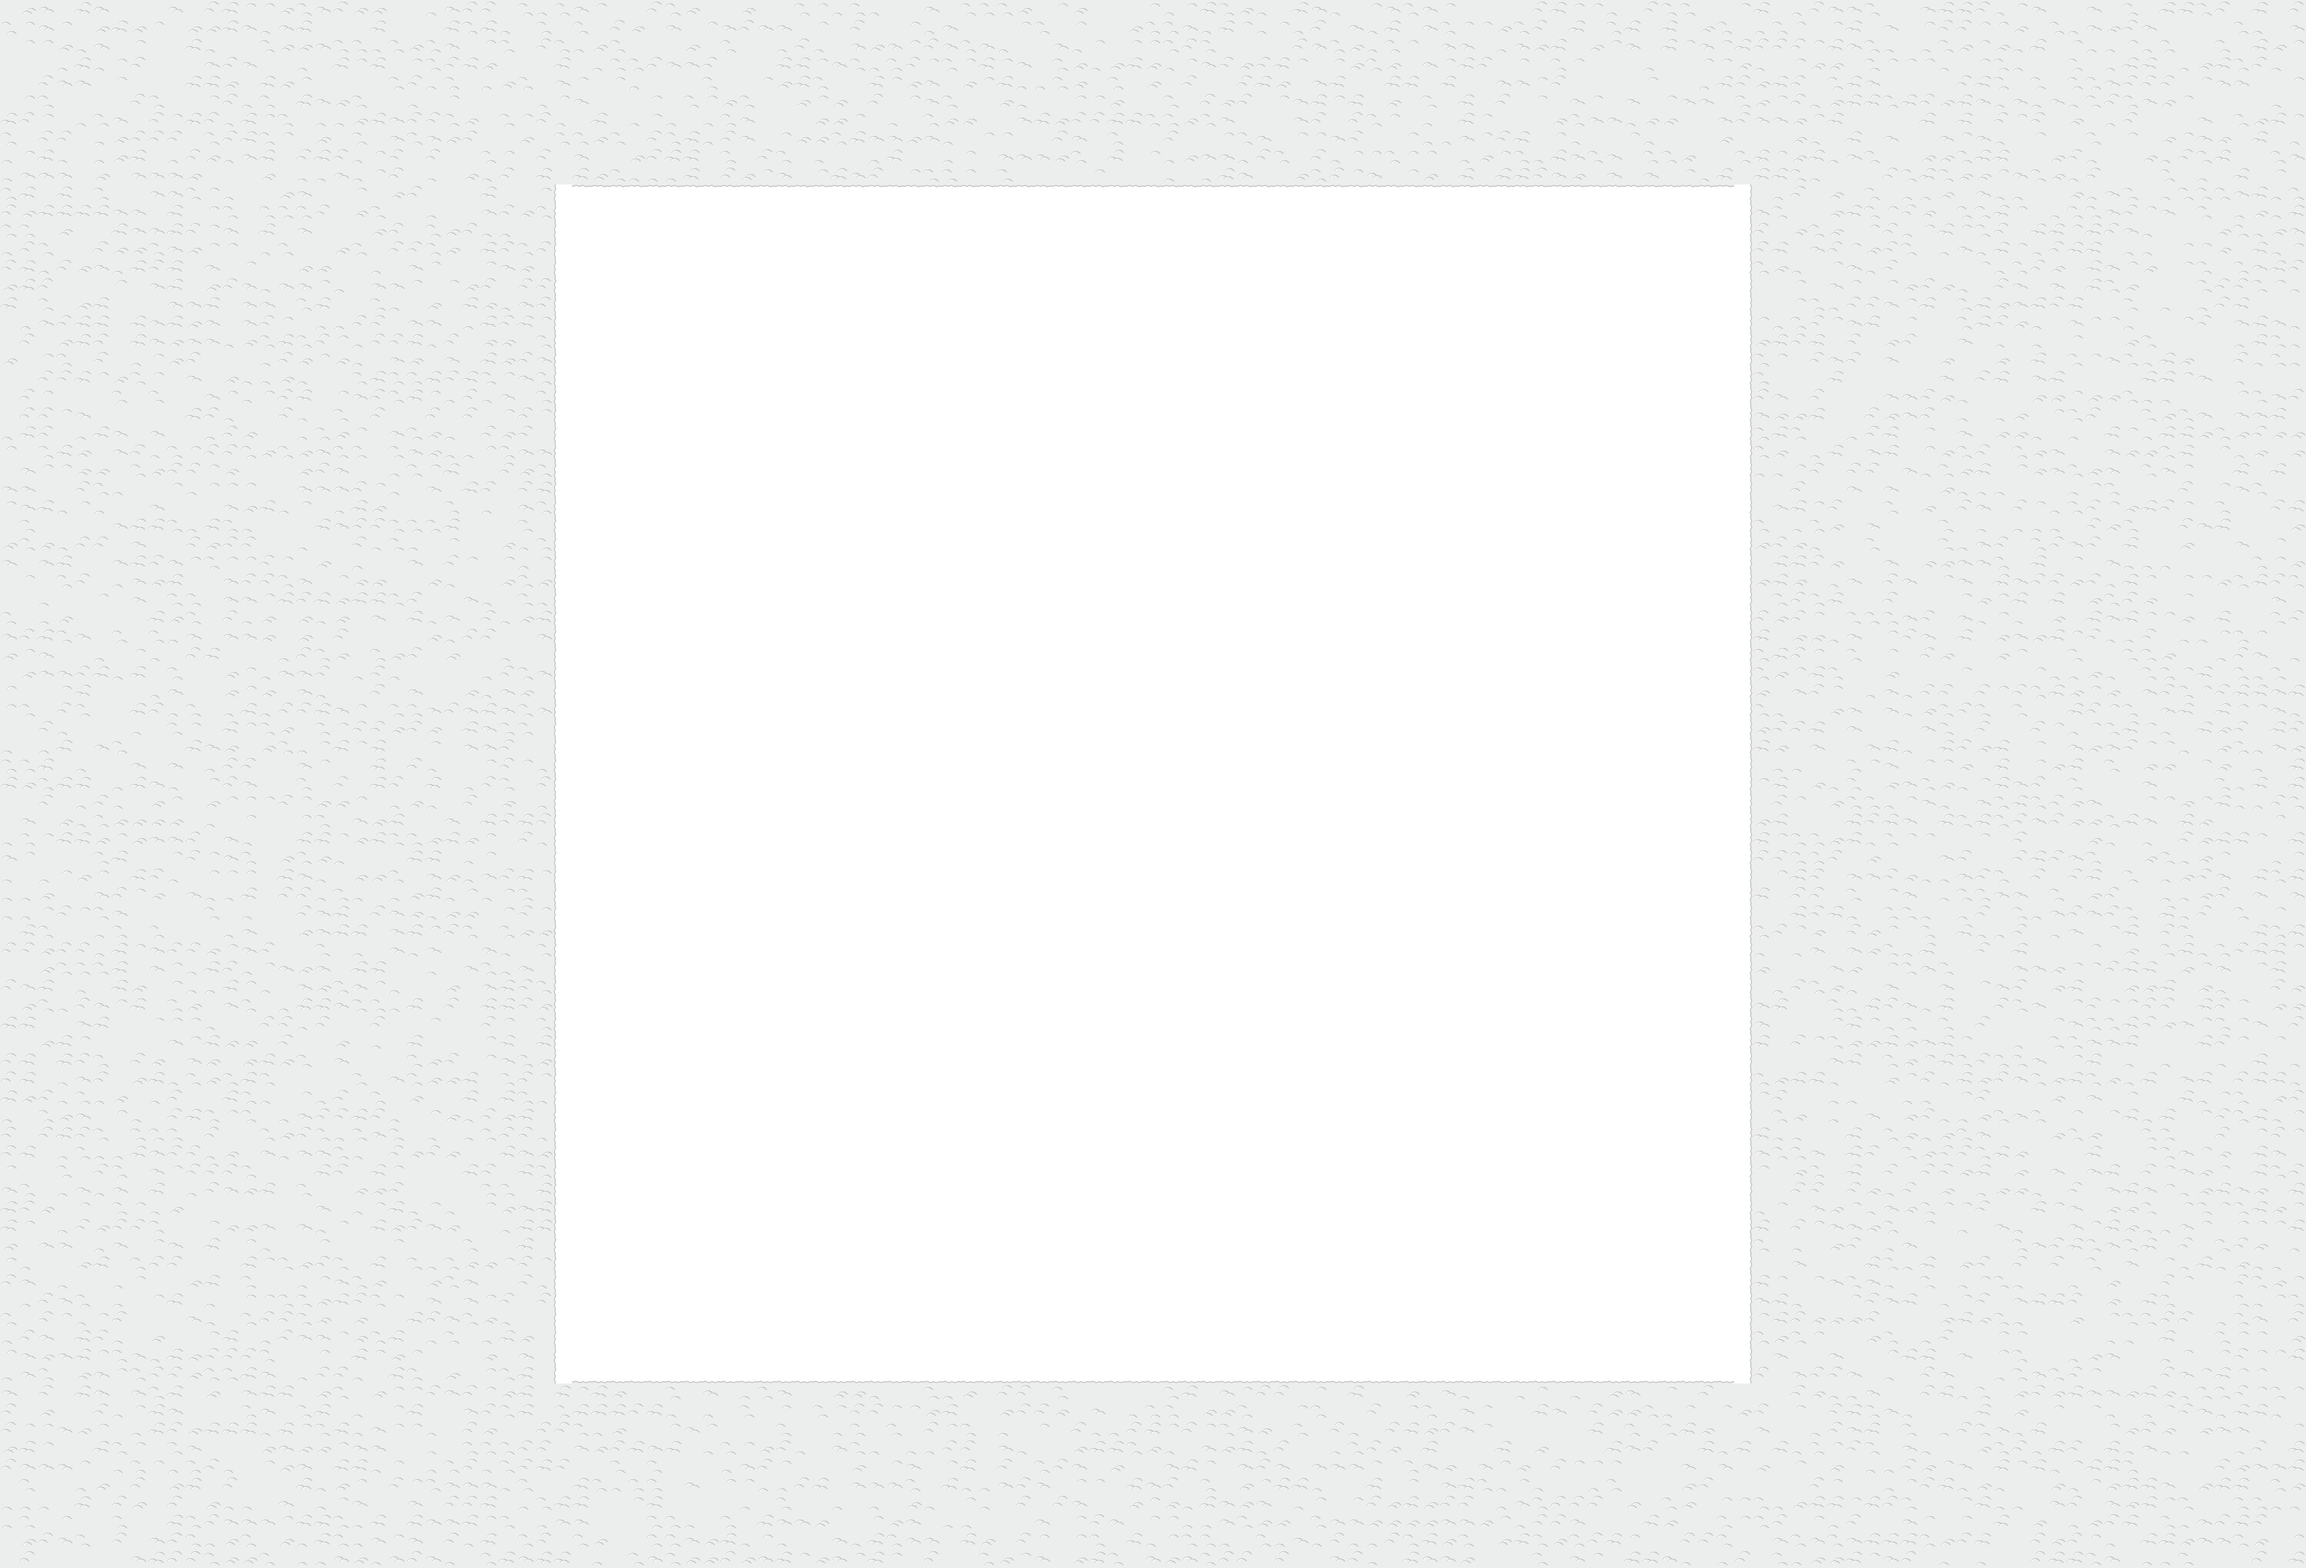
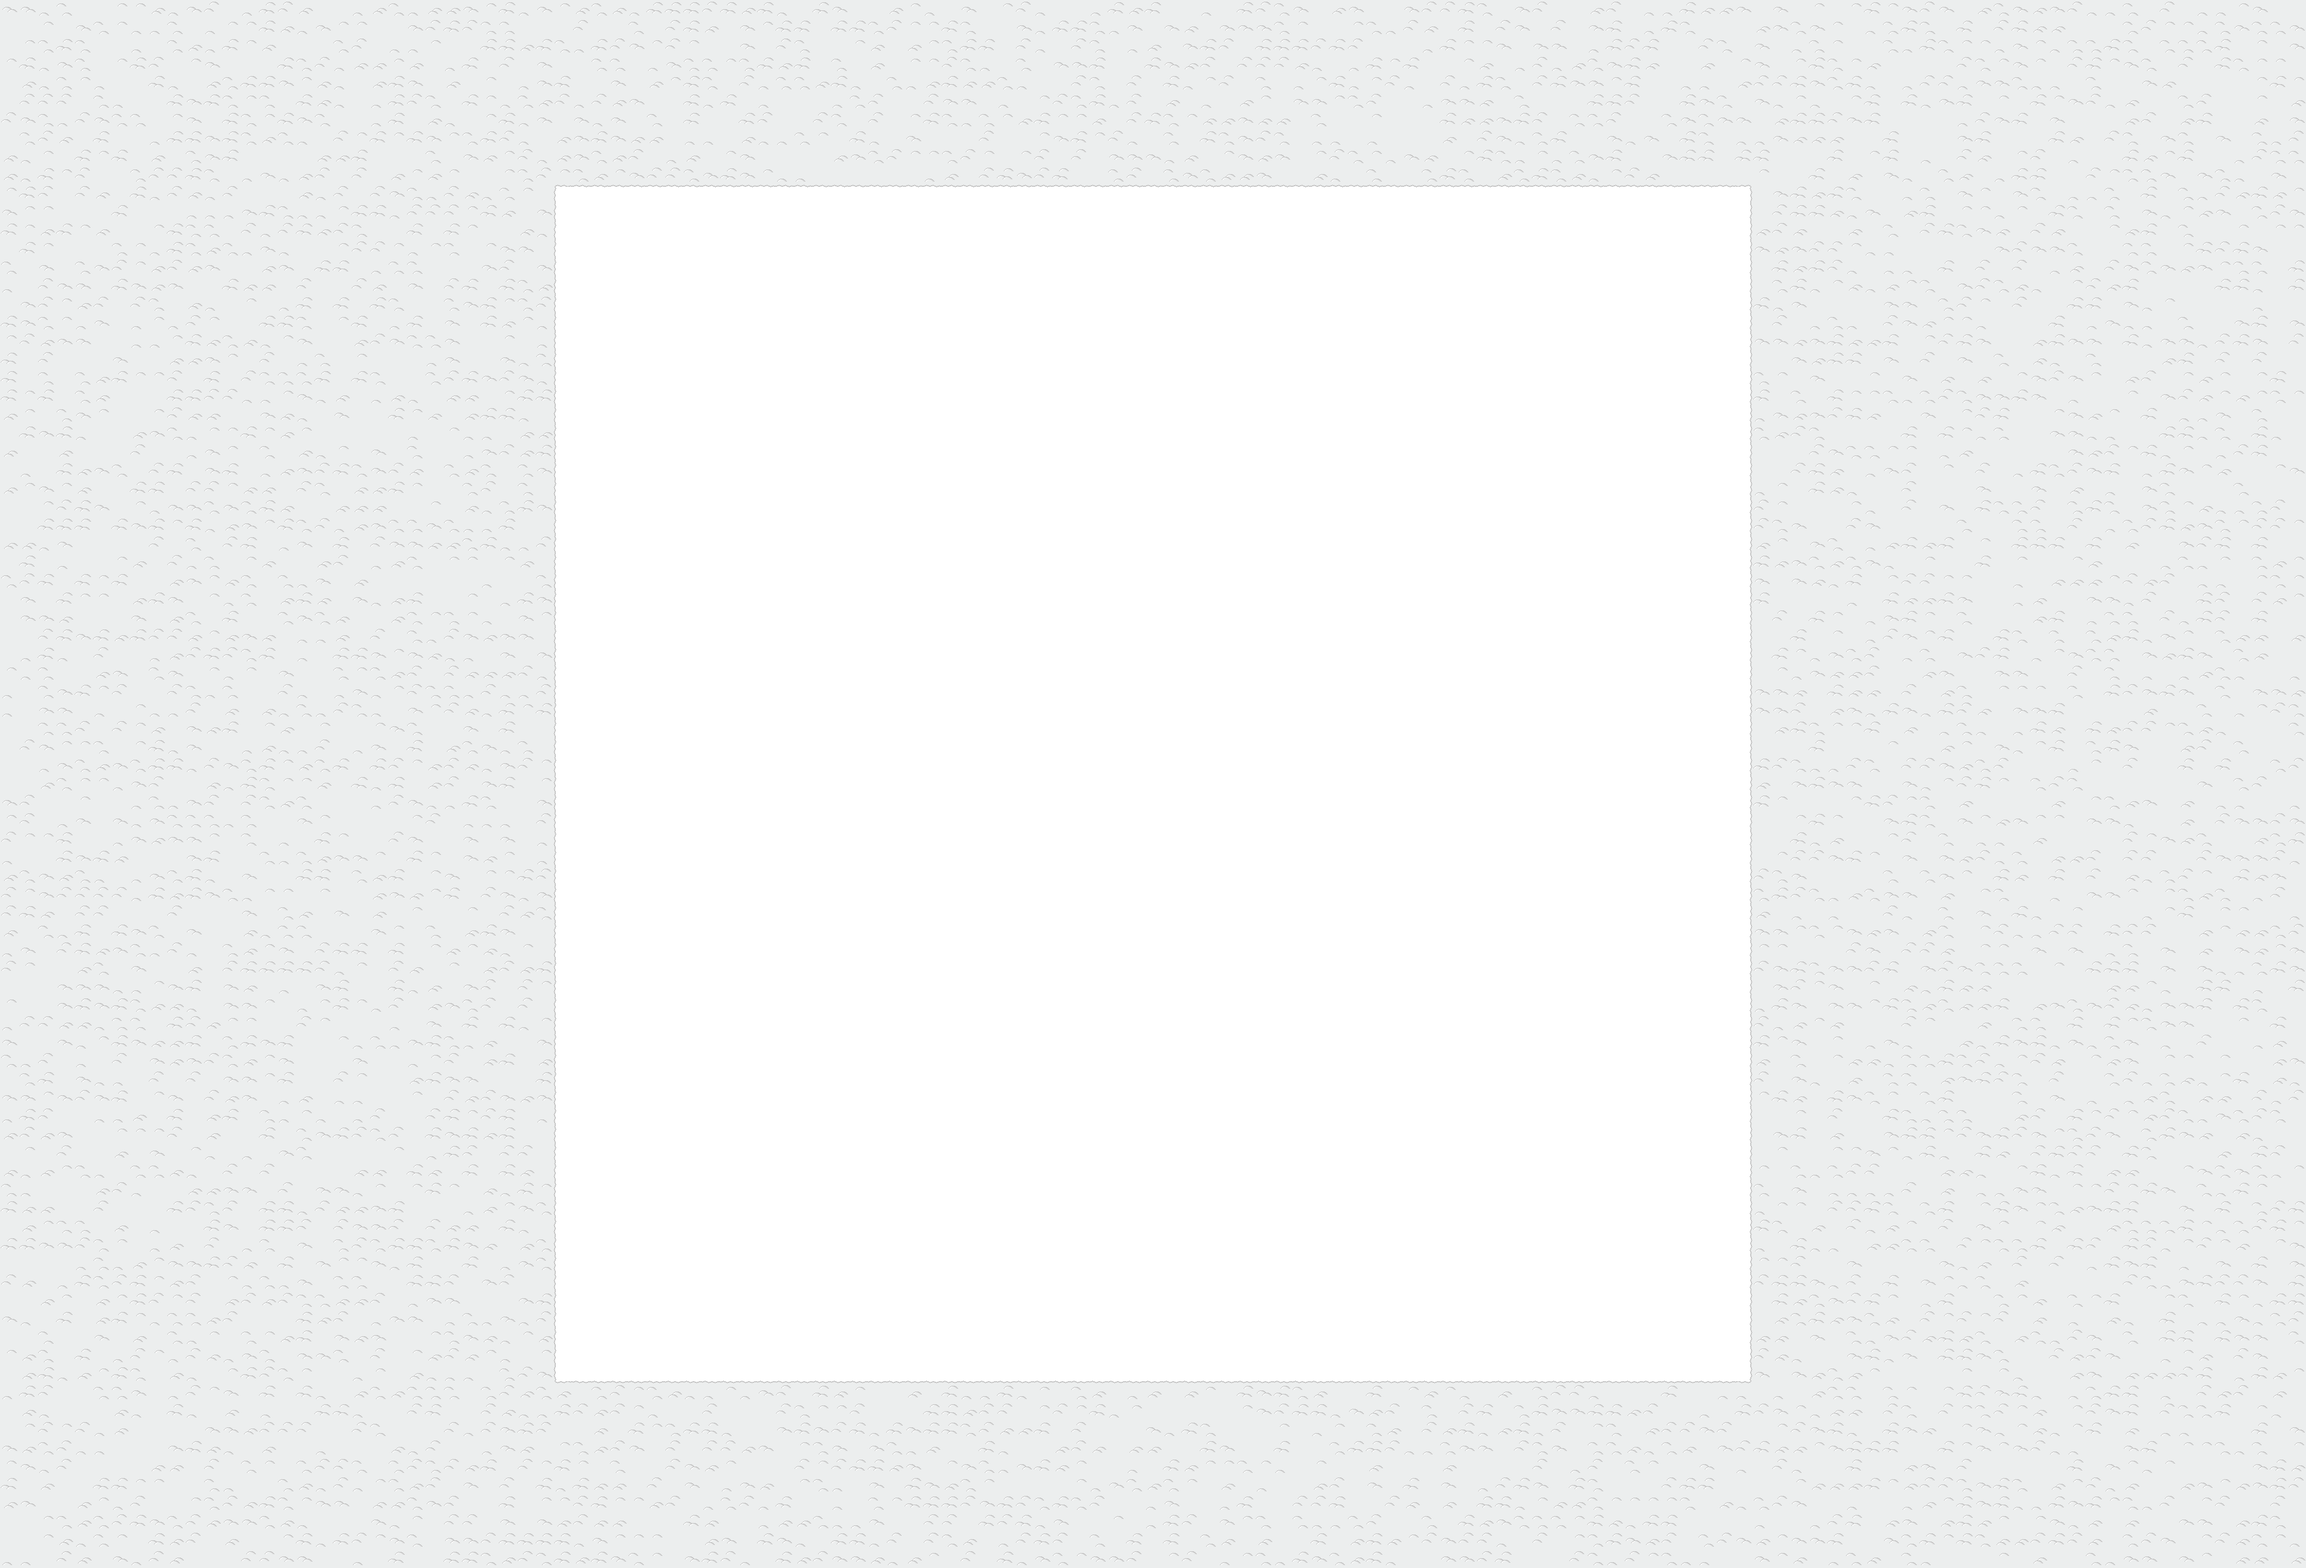
clouds are a little better

diff --git a/client/script/game.js b/client/script/game.js
@@ -41,7 +41,6 @@ export const viewport = new Viewport({
   //pixiapp width & height = 65 * 32(tile size) = 2080px
   worldWidth: 2200,
   worldHeight: 2200,
-
   interaction: app.renderer.plugins.interaction // the interaction module is important for wheel to work properly when renderer.view is placed or scaled
 })
 // add the viewport to the stage
@@ -52,7 +51,15 @@ viewport
   .drag()
   .pinch()
   .wheel()
-  .clampZoom({maxWidth: 6000})
+  .clampZoom({maxWidth: 115 * TILE_SIZE})
+  .clamp({
+    left: -30 * TILE_SIZE,
+    right: 95 * TILE_SIZE,
+    bottom: 75 * TILE_SIZE,
+    top: -10 * TILE_SIZE,
+    underflow: 'center'
+  })
+
 //  .decelerate()
 
 // --------------------- end Viewport setup ---------------------

diff --git a/script/clouds/make.py b/script/clouds/make.py
@@ -31,8 +31,19 @@ def makeCloudEdges(worldSize=(65, 65), padding=(30, 10), tilesize=32):
 
     fillSolid(img, worldSize, padding, tiles, tilesize)
     fillEdges(img, worldSize, padding, tiles, tilesize)
+    fillCorners(img, worldSize, padding, tiles, tilesize)
 
     img.save("../../public/assets/cloud.png")
+
+
+def fillCorners(img, worldSize, padding, tiles, tilesize):
+    fillSection(img, tiles[12], (padding[0], padding[1], 1, 1))
+    fillSection(img, tiles[13], (padding[0] +
+                                 worldSize[0]-1, padding[1], 1, 1))
+    fillSection(img, tiles[15], (padding[0] + worldSize[0]-1,
+                                 padding[1] + worldSize[1]-1, 1, 1))
+    fillSection(img, tiles[14], (padding[0],
+                                 padding[1] + worldSize[1] - 1, 1, 1))
 
 
 def fillEdges(img, worldSize, padding, tiles, tilesize):
